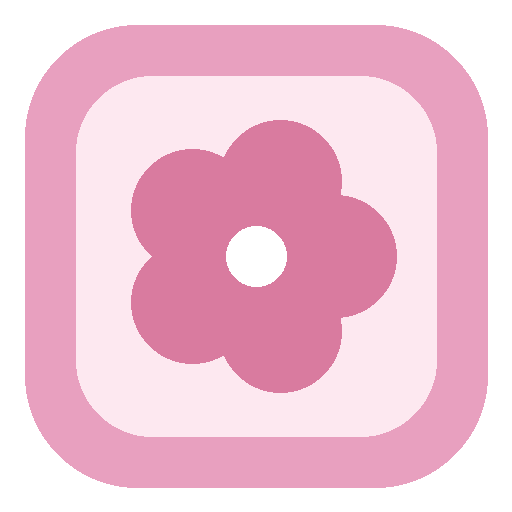
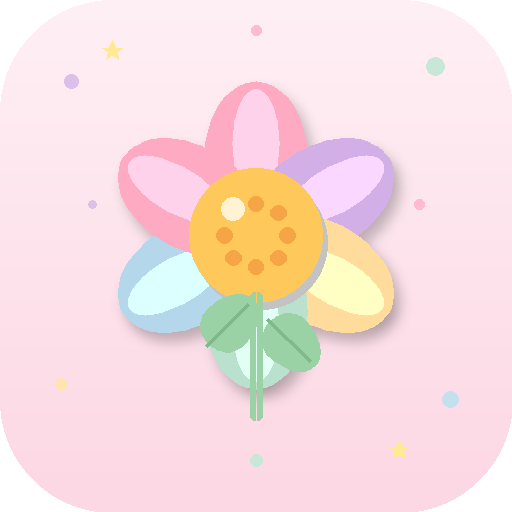
更新图标为可爱花花风格 🌸

diff --git a/index.html b/index.html
@@ -2,7 +2,8 @@
 <html lang="zh-CN">
   <head>
     <meta charset="UTF-8" />
-    <link rel="icon" type="image/svg+xml" href="/favicon.svg" />
+    <link rel="icon" type="image/png" href="/favicon.png" />
+    <link rel="apple-touch-icon" href="/apple-touch-icon.png" />
     <meta name="viewport" content="width=device-width, initial-scale=1.0, maximum-scale=1.0, minimum-scale=1.0, user-scalable=no, viewport-fit=cover" />
     <meta name="theme-color" content="#FBF3F6" />
     <meta name="apple-mobile-web-app-capable" content="yes" />
